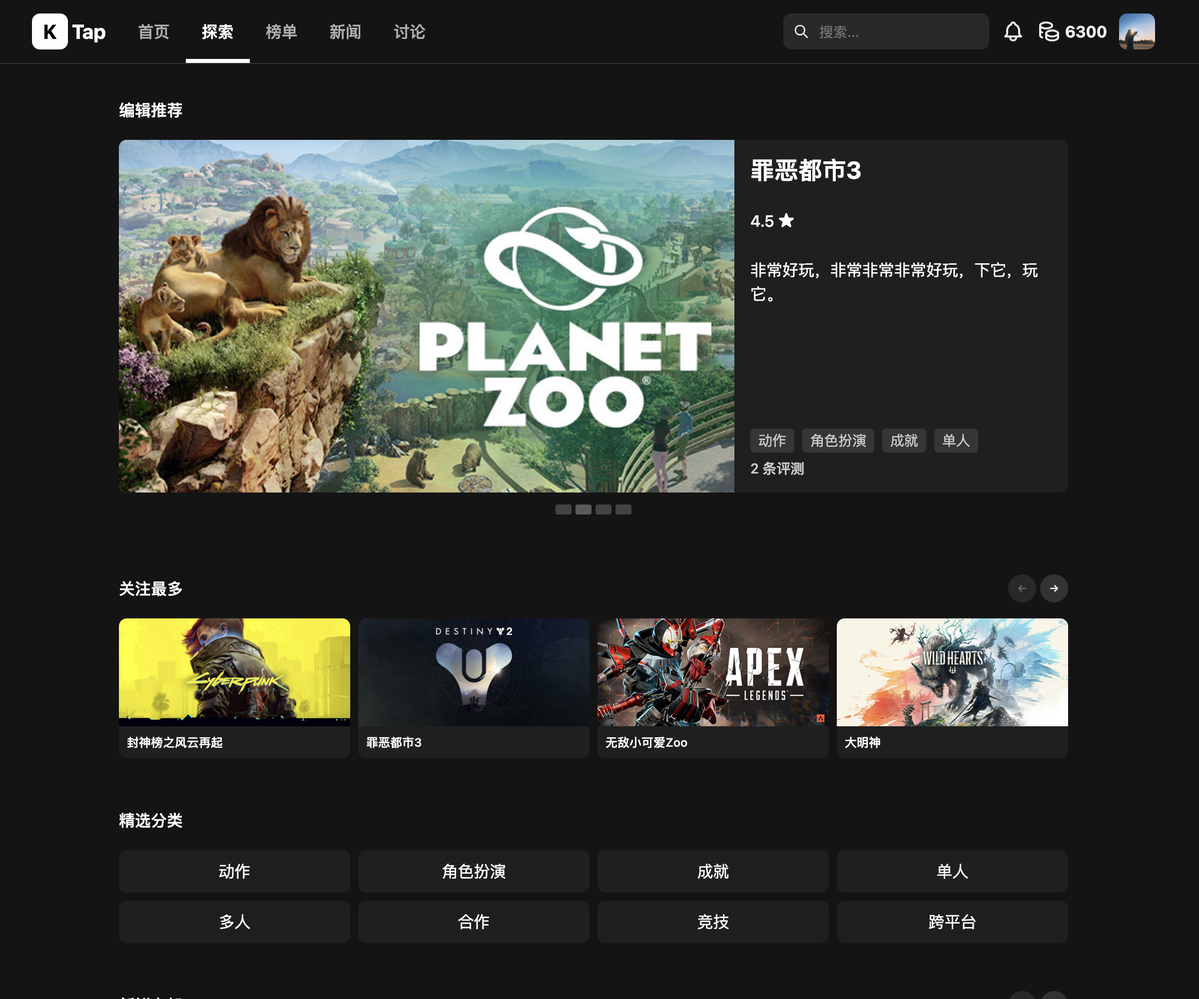
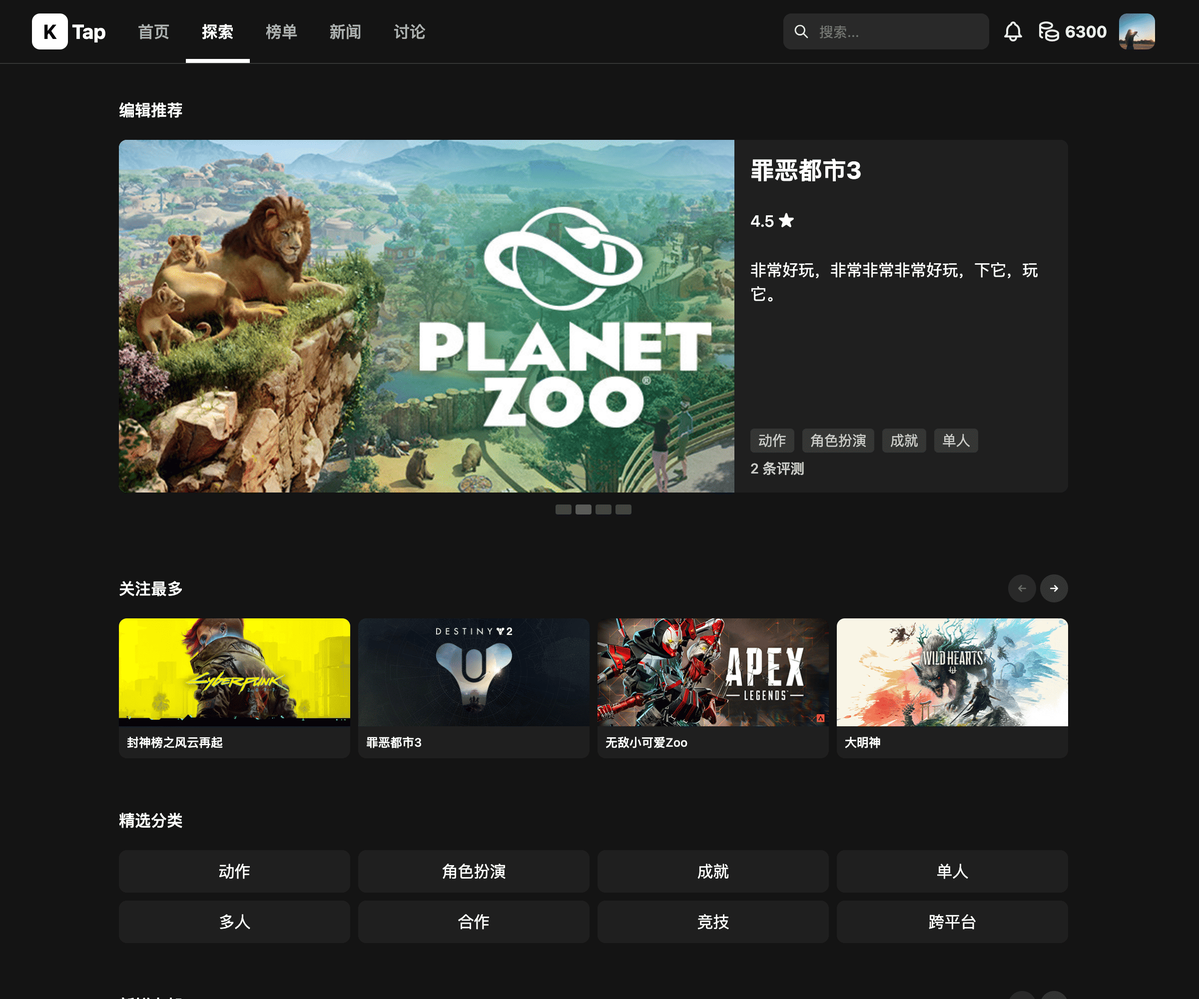
compressed images & add year group for posts

diff --git a/src/app/components/icons.jsx b/src/app/components/icons.jsx
@@ -1,7 +1,23 @@
-export const JavaScript = () => <svg viewBox="0 0 24 24"><path fill="currentcolor" d="M3,3H21V21H3V3M7.73,18.04C8.13,18.89 8.92,19.59 10.27,19.59C11.77,19.59 12.8,18.79 12.8,17.04V11.26H11.1V17C11.1,17.86 10.75,18.08 10.2,18.08C9.62,18.08 9.38,17.68 9.11,17.21L7.73,18.04M13.71,17.86C14.21,18.84 15.22,19.59 16.8,19.59C18.4,19.59 19.6,18.76 19.6,17.23C19.6,15.82 18.79,15.19 17.35,14.57L16.93,14.39C16.2,14.08 15.89,13.87 15.89,13.37C15.89,12.96 16.2,12.64 16.7,12.64C17.18,12.64 17.5,12.85 17.79,13.37L19.1,12.5C18.55,11.54 17.77,11.17 16.7,11.17C15.19,11.17 14.22,12.13 14.22,13.4C14.22,14.78 15.03,15.43 16.25,15.95L16.67,16.13C17.45,16.47 17.91,16.68 17.91,17.26C17.91,17.74 17.46,18.09 16.76,18.09C15.93,18.09 15.45,17.66 15.09,17.06L13.71,17.86Z"></path></svg>;
+export const Java = () => <svg viewBox="0 0 24 24"><path fill="currentcolor" d="M11.915 0 11.7.215C9.515 2.4 7.47 6.39 6.046 10.483c-1.064 1.024-3.633 2.81-3.711 3.551-.093.87 1.746 2.611 1.55 3.235-.198.625-1.304 1.408-1.014 1.939.1.188.823.011 1.277-.491a13.389 13.389 0 0 0-.017 2.14c.076.906.27 1.668.643 2.232.372.563.956.911 1.667.911.397 0 .727-.114 1.024-.264.298-.149.571-.33.91-.5.68-.34 1.634-.666 3.53-.604 1.903.062 2.872.39 3.559.704.687.314 1.15.664 1.925.664.767 0 1.395-.336 1.807-.9.412-.563.631-1.33.72-2.24.06-.623.055-1.32 0-2.066.454.45 1.117.604 1.213.424.29-.53-.816-1.314-1.013-1.937-.198-.624 1.642-2.366 1.549-3.236-.08-.748-2.707-2.568-3.748-3.586C16.428 6.374 14.308 2.394 12.13.215zm.175 6.038a2.95 2.95 0 0 1 2.943 2.942 2.95 2.95 0 0 1-2.943 2.943A2.95 2.95 0 0 1 9.148 8.98a2.95 2.95 0 0 1 2.942-2.942zM8.685 7.983a3.515 3.515 0 0 0-.145.997c0 1.951 1.6 3.55 3.55 3.55 1.95 0 3.55-1.598 3.55-3.55 0-.329-.046-.648-.132-.951.334.095.64.208.915.336a42.699 42.699 0 0 1 2.042 5.829c.678 2.545 1.01 4.92.846 6.607-.082.844-.29 1.51-.606 1.94-.315.431-.713.651-1.315.651-.593 0-.932-.27-1.673-.61-.741-.338-1.825-.694-3.792-.758-1.974-.064-3.073.293-3.821.669-.375.188-.659.373-.911.5s-.466.2-.752.2c-.53 0-.876-.209-1.16-.64-.285-.43-.474-1.101-.545-1.948-.141-1.693.176-4.069.823-6.614a43.155 43.155 0 0 1 1.934-5.783c.348-.167.749-.31 1.192-.425zm-3.382 4.362a.216.216 0 0 1 .13.031c-.166.56-.323 1.116-.463 1.665a33.849 33.849 0 0 0-.547 2.555 3.9 3.9 0 0 0-.2-.39c-.58-1.012-.914-1.642-1.16-2.08.315-.24 1.679-1.755 2.24-1.781zm13.394.01c.562.027 1.926 1.543 2.24 1.783-.246.438-.58 1.068-1.16 2.08a4.428 4.428 0 0 0-.163.309 32.354 32.354 0 0 0-.562-2.49 40.579 40.579 0 0 0-.482-1.652.216.216 0 0 1 .127-.03z" /></svg>;
+// export const Java = () => <svg viewBox="0 0 48 48"><path fill="#d43a02" d="M23.65,24.898c-0.998-1.609-1.722-2.943-2.725-5.455C19.229,15.2,31.24,11.366,26.37,3.999	c2.111,5.089-7.577,8.235-8.477,12.473C17.07,20.37,23.645,24.898,23.65,24.898z"></path><path fill="#d43a02" d="M23.878,17.27c-0.192,2.516,2.229,3.857,2.299,5.695c0.056,1.496-1.447,2.743-1.447,2.743	s2.728-0.536,3.579-2.818c0.945-2.534-1.834-4.269-1.548-6.298c0.267-1.938,6.031-5.543,6.031-5.543S24.311,11.611,23.878,17.27z"></path><linearGradient id="P9ujQJgz7XN9Qbny9S64Ha_Pd2x9GWu9ovX_gr1" x1="22.677" x2="30.737" y1="21.174" y2="43.318" gradientUnits="userSpaceOnUse"><stop offset="0" stop-color="#5c65d6"></stop><stop offset=".999" stop-color="#464eb0"></stop></linearGradient><path fill="url(#P9ujQJgz7XN9Qbny9S64Ha_Pd2x9GWu9ovX_gr1)" d="M32.084,25.055c1.754-0.394,3.233,0.723,3.233,2.01c0,2.901-4.021,5.643-4.021,5.643 s6.225-0.742,6.225-5.505C37.521,24.053,34.464,23.266,32.084,25.055z M29.129,27.395c0,0,1.941-1.383,2.458-1.902 c-4.763,1.011-15.638,1.147-15.638,0.269c0-0.809,3.507-1.638,3.507-1.638s-7.773-0.112-7.773,2.181 C11.683,28.695,21.858,28.866,29.129,27.395z"></path><linearGradient id="P9ujQJgz7XN9Qbny9S64Hb_Pd2x9GWu9ovX_gr2" x1="19.498" x2="27.296" y1="22.77" y2="44.196" gradientUnits="userSpaceOnUse"><stop offset="0" stop-color="#5c65d6"></stop><stop offset=".999" stop-color="#464eb0"></stop></linearGradient><path fill="url(#P9ujQJgz7XN9Qbny9S64Hb_Pd2x9GWu9ovX_gr2)" d="M27.935,29.571 c-4.509,1.499-12.814,1.02-10.354-0.993c-1.198,0-2.974,0.963-2.974,1.889c0,1.857,8.982,3.291,15.63,0.572L27.935,29.571z"></path><linearGradient id="P9ujQJgz7XN9Qbny9S64Hc_Pd2x9GWu9ovX_gr3" x1="18.698" x2="26.59" y1="23.455" y2="45.14" gradientUnits="userSpaceOnUse"><stop offset="0" stop-color="#5c65d6"></stop><stop offset=".999" stop-color="#464eb0"></stop></linearGradient><path fill="url(#P9ujQJgz7XN9Qbny9S64Hc_Pd2x9GWu9ovX_gr3)" d="M18.686,32.739 c-1.636,0-2.695,1.054-2.695,1.822c0,2.391,9.76,2.632,13.627,0.205l-2.458-1.632C24.271,34.404,17.014,34.579,18.686,32.739z"></path><linearGradient id="P9ujQJgz7XN9Qbny9S64Hd_Pd2x9GWu9ovX_gr4" x1="18.03" x2="25.861" y1="24.198" y2="45.712" gradientUnits="userSpaceOnUse"><stop offset="0" stop-color="#5c65d6"></stop><stop offset=".999" stop-color="#464eb0"></stop></linearGradient><path fill="url(#P9ujQJgz7XN9Qbny9S64Hd_Pd2x9GWu9ovX_gr4)" d="M36.281,36.632 c0-0.936-1.055-1.377-1.433-1.588c2.228,5.373-22.317,4.956-22.317,1.784c0-0.721,1.807-1.427,3.477-1.093l-1.42-0.839 C11.26,34.374,9,35.837,9,37.017C9,42.52,36.281,42.255,36.281,36.632z"></path><linearGradient id="P9ujQJgz7XN9Qbny9S64He_Pd2x9GWu9ovX_gr5" x1="20.725" x2="28.228" y1="24.582" y2="45.197" gradientUnits="userSpaceOnUse"><stop offset="0" stop-color="#5c65d6"></stop><stop offset=".999" stop-color="#464eb0"></stop></linearGradient><path fill="url(#P9ujQJgz7XN9Qbny9S64He_Pd2x9GWu9ovX_gr5)" d="M39,38.604 c-4.146,4.095-14.659,5.587-25.231,3.057C24.341,46.164,38.95,43.628,39,38.604z"></path></svg>
+export const JavaScript = () => <svg viewBox="0 0 24 24"><path fill="currentcolor" d="M0 0h24v24H0V0zm22.034 18.276c-.175-1.095-.888-2.015-3.003-2.873-.736-.345-1.554-.585-1.797-1.14-.091-.33-.105-.51-.046-.705.15-.646.915-.84 1.515-.66.39.12.75.42.976.9 1.034-.676 1.034-.676 1.755-1.125-.27-.42-.404-.601-.586-.78-.63-.705-1.469-1.065-2.834-1.034l-.705.089c-.676.165-1.32.525-1.71 1.005-1.14 1.291-.811 3.541.569 4.471 1.365 1.02 3.361 1.244 3.616 2.205.24 1.17-.87 1.545-1.966 1.41-.811-.18-1.26-.586-1.755-1.336l-1.83 1.051c.21.48.45.689.81 1.109 1.74 1.756 6.09 1.666 6.871-1.004.029-.09.24-.705.074-1.65l.046.067zm-8.983-7.245h-2.248c0 1.938-.009 3.864-.009 5.805 0 1.232.063 2.363-.138 2.711-.33.689-1.18.601-1.566.48-.396-.196-.597-.466-.83-.855-.063-.105-.11-.196-.127-.196l-1.825 1.125c.305.63.75 1.172 1.324 1.517.855.51 2.004.675 3.207.405.783-.226 1.458-.691 1.811-1.411.51-.93.402-2.07.397-3.346.012-2.054 0-4.109 0-6.179l.004-.056z" /></svg>;
 export const NextJS = () => <svg viewBox="0 0 24 24"><path fill="currentcolor" d="M12 2C6.5 2 2 6.5 2 12s4.5 10 10 10c1.8 0 3.4-.5 4.8-1.2L9.6 10.6v5.7H8.5V8.5h1.1l7.9 11.8c2.7-1.8 4.5-4.9 4.5-8.4C22 6.5 17.5 2 12 2zm3.5 13.2-1.2-1.8V8.5h1.2v6.7z"></path></svg>;
-export const React = () => <svg viewBox="0 0 24 24"><path fill="currentcolor" d="M12,10.11C13.03,10.11 13.87,10.95 13.87,12C13.87,13 13.03,13.85 12,13.85C10.97,13.85 10.13,13 10.13,12C10.13,10.95 10.97,10.11 12,10.11M7.37,20C8,20.38 9.38,19.8 10.97,18.3C10.45,17.71 9.94,17.07 9.46,16.4C8.64,16.32 7.83,16.2 7.06,16.04C6.55,18.18 6.74,19.65 7.37,20M8.08,14.26L7.79,13.75C7.68,14.04 7.57,14.33 7.5,14.61C7.77,14.67 8.07,14.72 8.38,14.77C8.28,14.6 8.18,14.43 8.08,14.26M14.62,13.5L15.43,12L14.62,10.5C14.32,9.97 14,9.5 13.71,9.03C13.17,9 12.6,9 12,9C11.4,9 10.83,9 10.29,9.03C10,9.5 9.68,9.97 9.38,10.5L8.57,12L9.38,13.5C9.68,14.03 10,14.5 10.29,14.97C10.83,15 11.4,15 12,15C12.6,15 13.17,15 13.71,14.97C14,14.5 14.32,14.03 14.62,13.5M12,6.78C11.81,7 11.61,7.23 11.41,7.5C11.61,7.5 11.8,7.5 12,7.5C12.2,7.5 12.39,7.5 12.59,7.5C12.39,7.23 12.19,7 12,6.78M12,17.22C12.19,17 12.39,16.77 12.59,16.5C12.39,16.5 12.2,16.5 12,16.5C11.8,16.5 11.61,16.5 11.41,16.5C11.61,16.77 11.81,17 12,17.22M16.62,4C16,3.62 14.62,4.2 13.03,5.7C13.55,6.29 14.06,6.93 14.54,7.6C15.36,7.68 16.17,7.8 16.94,7.96C17.45,5.82 17.26,4.35 16.62,4M15.92,9.74L16.21,10.25C16.32,9.96 16.43,9.67 16.5,9.39C16.23,9.33 15.93,9.28 15.62,9.23C15.72,9.4 15.82,9.57 15.92,9.74M17.37,2.69C18.84,3.53 19,5.74 18.38,8.32C20.92,9.07 22.75,10.31 22.75,12C22.75,13.69 20.92,14.93 18.38,15.68C19,18.26 18.84,20.47 17.37,21.31C15.91,22.15 13.92,21.19 12,19.36C10.08,21.19 8.09,22.15 6.62,21.31C5.16,20.47 5,18.26 5.62,15.68C3.08,14.93 1.25,13.69 1.25,12C1.25,10.31 3.08,9.07 5.62,8.32C5,5.74 5.16,3.53 6.62,2.69C8.09,1.85 10.08,2.81 12,4.64C13.92,2.81 15.91,1.85 17.37,2.69M17.08,12C17.42,12.75 17.72,13.5 17.97,14.26C20.07,13.63 21.25,12.73 21.25,12C21.25,11.27 20.07,10.37 17.97,9.74C17.72,10.5 17.42,11.25 17.08,12M6.92,12C6.58,11.25 6.28,10.5 6.03,9.74C3.93,10.37 2.75,11.27 2.75,12C2.75,12.73 3.93,13.63 6.03,14.26C6.28,13.5 6.58,12.75 6.92,12M15.92,14.26C15.82,14.43 15.72,14.6 15.62,14.77C15.93,14.72 16.23,14.67 16.5,14.61C16.43,14.33 16.32,14.04 16.21,13.75L15.92,14.26M13.03,18.3C14.62,19.8 16,20.38 16.62,20C17.26,19.65 17.45,18.18 16.94,16.04C16.17,16.2 15.36,16.32 14.54,16.4C14.06,17.07 13.55,17.71 13.03,18.3M8.08,9.74C8.18,9.57 8.28,9.4 8.38,9.23C8.07,9.28 7.77,9.33 7.5,9.39C7.57,9.67 7.68,9.96 7.79,10.25L8.08,9.74M10.97,5.7C9.38,4.2 8,3.62 7.37,4C6.74,4.35 6.55,5.82 7.06,7.96C7.83,7.8 8.64,7.68 9.46,7.6C9.94,6.93 10.45,6.29 10.97,5.7Z"></path></svg>;
+export const React = () => <svg viewBox="0 0 24 24"><path fill="currentcolor" d="M14.23 12.004a2.236 2.236 0 0 1-2.235 2.236 2.236 2.236 0 0 1-2.236-2.236 2.236 2.236 0 0 1 2.235-2.236 2.236 2.236 0 0 1 2.236 2.236zm2.648-10.69c-1.346 0-3.107.96-4.888 2.622-1.78-1.653-3.542-2.602-4.887-2.602-.41 0-.783.093-1.106.278-1.375.793-1.683 3.264-.973 6.365C1.98 8.917 0 10.42 0 12.004c0 1.59 1.99 3.097 5.043 4.03-.704 3.113-.39 5.588.988 6.38.32.187.69.275 1.102.275 1.345 0 3.107-.96 4.888-2.624 1.78 1.654 3.542 2.603 4.887 2.603.41 0 .783-.09 1.106-.275 1.374-.792 1.683-3.263.973-6.365C22.02 15.096 24 13.59 24 12.004c0-1.59-1.99-3.097-5.043-4.032.704-3.11.39-5.587-.988-6.38-.318-.184-.688-.277-1.092-.278zm-.005 1.09v.006c.225 0 .406.044.558.127.666.382.955 1.835.73 3.704-.054.46-.142.945-.25 1.44-.96-.236-2.006-.417-3.107-.534-.66-.905-1.345-1.727-2.035-2.447 1.592-1.48 3.087-2.292 4.105-2.295zm-9.77.02c1.012 0 2.514.808 4.11 2.28-.686.72-1.37 1.537-2.02 2.442-1.107.117-2.154.298-3.113.538-.112-.49-.195-.964-.254-1.42-.23-1.868.054-3.32.714-3.707.19-.09.4-.127.563-.132zm4.882 3.05c.455.468.91.992 1.36 1.564-.44-.02-.89-.034-1.345-.034-.46 0-.915.01-1.36.034.44-.572.895-1.096 1.345-1.565zM12 8.1c.74 0 1.477.034 2.202.093.406.582.802 1.203 1.183 1.86.372.64.71 1.29 1.018 1.946-.308.655-.646 1.31-1.013 1.95-.38.66-.773 1.288-1.18 1.87-.728.063-1.466.098-2.21.098-.74 0-1.477-.035-2.202-.093-.406-.582-.802-1.204-1.183-1.86-.372-.64-.71-1.29-1.018-1.946.303-.657.646-1.313 1.013-1.954.38-.66.773-1.286 1.18-1.868.728-.064 1.466-.098 2.21-.098zm-3.635.254c-.24.377-.48.763-.704 1.16-.225.39-.435.782-.635 1.174-.265-.656-.49-1.31-.676-1.947.64-.15 1.315-.283 2.015-.386zm7.26 0c.695.103 1.365.23 2.006.387-.18.632-.405 1.282-.66 1.933-.2-.39-.41-.783-.64-1.174-.225-.392-.465-.774-.705-1.146zm3.063.675c.484.15.944.317 1.375.498 1.732.74 2.852 1.708 2.852 2.476-.005.768-1.125 1.74-2.857 2.475-.42.18-.88.342-1.355.493-.28-.958-.646-1.956-1.1-2.98.45-1.017.81-2.01 1.085-2.964zm-13.395.004c.278.96.645 1.957 1.1 2.98-.45 1.017-.812 2.01-1.086 2.964-.484-.15-.944-.318-1.37-.5-1.732-.737-2.852-1.706-2.852-2.474 0-.768 1.12-1.742 2.852-2.476.42-.18.88-.342 1.356-.494zm11.678 4.28c.265.657.49 1.312.676 1.948-.64.157-1.316.29-2.016.39.24-.375.48-.762.705-1.158.225-.39.435-.788.636-1.18zm-9.945.02c.2.392.41.783.64 1.175.23.39.465.772.705 1.143-.695-.102-1.365-.23-2.006-.386.18-.63.406-1.282.66-1.933zM17.92 16.32c.112.493.2.968.254 1.423.23 1.868-.054 3.32-.714 3.708-.147.09-.338.128-.563.128-1.012 0-2.514-.807-4.11-2.28.686-.72 1.37-1.536 2.02-2.44 1.107-.118 2.154-.3 3.113-.54zm-11.83.01c.96.234 2.006.415 3.107.532.66.905 1.345 1.727 2.035 2.446-1.595 1.483-3.092 2.295-4.11 2.295-.22-.005-.406-.05-.553-.132-.666-.38-.955-1.834-.73-3.703.054-.46.142-.944.25-1.438zm4.56.64c.44.02.89.034 1.345.034.46 0 .915-.01 1.36-.034-.44.572-.895 1.095-1.345 1.565-.455-.47-.91-.993-1.36-1.565z" /></svg>
 export const Kotlin = () => <svg viewBox="0 0 24 24"><path fill="currentcolor" d="M2 2H22L12 12L22 22H2Z"></path></svg>;
-export const NodeJS = () => <svg viewBox="0 0 24 24"><path fill="currentcolor" d="M12,1.85C11.73,1.85 11.45,1.92 11.22,2.05L3.78,6.35C3.3,6.63 3,7.15 3,7.71V16.29C3,16.85 3.3,17.37 3.78,17.65L5.73,18.77C6.68,19.23 7,19.24 7.44,19.24C8.84,19.24 9.65,18.39 9.65,16.91V8.44C9.65,8.32 9.55,8.22 9.43,8.22H8.5C8.37,8.22 8.27,8.32 8.27,8.44V16.91C8.27,17.57 7.59,18.22 6.5,17.67L4.45,16.5C4.38,16.45 4.34,16.37 4.34,16.29V7.71C4.34,7.62 4.38,7.54 4.45,7.5L11.89,3.21C11.95,3.17 12.05,3.17 12.11,3.21L19.55,7.5C19.62,7.54 19.66,7.62 19.66,7.71V16.29C19.66,16.37 19.62,16.45 19.55,16.5L12.11,20.79C12.05,20.83 11.95,20.83 11.88,20.79L10,19.65C9.92,19.62 9.84,19.61 9.79,19.64C9.26,19.94 9.16,20 8.67,20.15C8.55,20.19 8.36,20.26 8.74,20.47L11.22,21.94C11.46,22.08 11.72,22.15 12,22.15C12.28,22.15 12.54,22.08 12.78,21.94L20.22,17.65C20.7,17.37 21,16.85 21,16.29V7.71C21,7.15 20.7,6.63 20.22,6.35L12.78,2.05C12.55,1.92 12.28,1.85 12,1.85M14,8C11.88,8 10.61,8.89 10.61,10.39C10.61,12 11.87,12.47 13.91,12.67C16.34,12.91 16.53,13.27 16.53,13.75C16.53,14.58 15.86,14.93 14.3,14.93C12.32,14.93 11.9,14.44 11.75,13.46C11.73,13.36 11.64,13.28 11.53,13.28H10.57C10.45,13.28 10.36,13.37 10.36,13.5C10.36,14.74 11.04,16.24 14.3,16.24C16.65,16.24 18,15.31 18,13.69C18,12.08 16.92,11.66 14.63,11.35C12.32,11.05 12.09,10.89 12.09,10.35C12.09,9.9 12.29,9.3 14,9.3C15.5,9.3 16.09,9.63 16.32,10.66C16.34,10.76 16.43,10.83 16.53,10.83H17.5C17.55,10.83 17.61,10.81 17.65,10.76C17.69,10.72 17.72,10.66 17.7,10.6C17.56,8.82 16.38,8 14,8Z"></path></svg>;
-export const Git = () => <svg viewBox="0 0 24 24"><path fill="currentcolor" d="M2.6,10.59L8.38,4.8L10.07,6.5C9.83,7.35 10.22,8.28 11,8.73V14.27C10.4,14.61 10,15.26 10,16A2,2 0 0,0 12,18A2,2 0 0,0 14,16C14,15.26 13.6,14.61 13,14.27V9.41L15.07,11.5C15,11.65 15,11.82 15,12A2,2 0 0,0 17,14A2,2 0 0,0 19,12A2,2 0 0,0 17,10C16.82,10 16.65,10 16.5,10.07L13.93,7.5C14.19,6.57 13.71,5.55 12.78,5.16C12.35,5 11.9,4.96 11.5,5.07L9.8,3.38L10.59,2.6C11.37,1.81 12.63,1.81 13.41,2.6L21.4,10.59C22.19,11.37 22.19,12.63 21.4,13.41L13.41,21.4C12.63,22.19 11.37,22.19 10.59,21.4L2.6,13.41C1.81,12.63 1.81,11.37 2.6,10.59Z"></path></svg>;
-export const MongoDB = () => <svg viewBox="0 0 24 24"><path fill="currentcolor" d="M17,8C8,10 5.9,16.17 3.82,21.34L5.71,22L6.66,19.7C7.14,19.87 7.64,20 8,20C19,20 22,3 22,3C21,5 14,5.25 9,6.25C4,7.25 2,11.5 2,13.5C2,15.5 3.75,17.25 3.75,17.25C7,8 17,8 17,8Z"></path></svg>;
+export const NodeJS = () => <svg viewBox="0 0 24 24" ><path fill="currentcolor" d="M11.998,24c-0.321,0-0.641-0.084-0.922-0.247l-2.936-1.737c-0.438-0.245-0.224-0.332-0.08-0.383 c0.585-0.203,0.703-0.25,1.328-0.604c0.065-0.037,0.151-0.023,0.218,0.017l2.256,1.339c0.082,0.045,0.197,0.045,0.272,0l8.795-5.076 c0.082-0.047,0.134-0.141,0.134-0.238V6.921c0-0.099-0.053-0.192-0.137-0.242l-8.791-5.072c-0.081-0.047-0.189-0.047-0.271,0 L3.075,6.68C2.99,6.729,2.936,6.825,2.936,6.921v10.15c0,0.097,0.054,0.189,0.139,0.235l2.409,1.392 c1.307,0.654,2.108-0.116,2.108-0.89V7.787c0-0.142,0.114-0.253,0.256-0.253h1.115c0.139,0,0.255,0.112,0.255,0.253v10.021 c0,1.745-0.95,2.745-2.604,2.745c-0.508,0-0.909,0-2.026-0.551L2.28,18.675c-0.57-0.329-0.922-0.945-0.922-1.604V6.921 c0-0.659,0.353-1.275,0.922-1.603l8.795-5.082c0.557-0.315,1.296-0.315,1.848,0l8.794,5.082c0.57,0.329,0.924,0.944,0.924,1.603 v10.15c0,0.659-0.354,1.273-0.924,1.604l-8.794,5.078C12.643,23.916,12.324,24,11.998,24z M19.099,13.993 c0-1.9-1.284-2.406-3.987-2.763c-2.731-0.361-3.009-0.548-3.009-1.187c0-0.528,0.235-1.233,2.258-1.233 c1.807,0,2.473,0.389,2.747,1.607c0.024,0.115,0.129,0.199,0.247,0.199h1.141c0.071,0,0.138-0.031,0.186-0.081 c0.048-0.054,0.074-0.123,0.067-0.196c-0.177-2.098-1.571-3.076-4.388-3.076c-2.508,0-4.004,1.058-4.004,2.833 c0,1.925,1.488,2.457,3.895,2.695c2.88,0.282,3.103,0.703,3.103,1.269c0,0.983-0.789,1.402-2.642,1.402 c-2.327,0-2.839-0.584-3.011-1.742c-0.02-0.124-0.126-0.215-0.253-0.215h-1.137c-0.141,0-0.254,0.112-0.254,0.253 c0,1.482,0.806,3.248,4.655,3.248C17.501,17.007,19.099,15.91,19.099,13.993z" /></svg>;
+export const Git = () => <svg viewBox="0 0 24 24" ><path fill="currentcolor" d="M23.546 10.93L13.067.452c-.604-.603-1.582-.603-2.188 0L8.708 2.627l2.76 2.76c.645-.215 1.379-.07 1.889.441.516.515.658 1.258.438 1.9l2.658 2.66c.645-.223 1.387-.078 1.9.435.721.72.721 1.884 0 2.604-.719.719-1.881.719-2.6 0-.539-.541-.674-1.337-.404-1.996L12.86 8.955v6.525c.176.086.342.203.488.348.713.721.713 1.883 0 2.6-.719.721-1.889.721-2.609 0-.719-.719-.719-1.879 0-2.598.182-.18.387-.316.605-.406V8.835c-.217-.091-.424-.222-.6-.401-.545-.545-.676-1.342-.396-2.009L7.636 3.7.45 10.881c-.6.605-.6 1.584 0 2.189l10.48 10.477c.604.604 1.582.604 2.186 0l10.43-10.43c.605-.603.605-1.582 0-2.187" /></svg>;
+export const MongoDB = () => <svg viewBox="0 0 24 24" ><path fill="currentcolor" d="M17.193 9.555c-1.264-5.58-4.252-7.414-4.573-8.115-.28-.394-.53-.954-.735-1.44-.036.495-.055.685-.523 1.184-.723.566-4.438 3.682-4.74 10.02-.282 5.912 4.27 9.435 4.888 9.884l.07.05A73.49 73.49 0 0111.91 24h.481c.114-1.032.284-2.056.51-3.07.417-.296.604-.463.85-.693a11.342 11.342 0 003.639-8.464c.01-.814-.103-1.662-.197-2.218zm-5.336 8.195s0-8.291.275-8.29c.213 0 .49 10.695.49 10.695-.381-.045-.765-1.76-.765-2.405z" /></svg>;
+export const Rust = () => <svg viewBox="0 0 24 24"><path fill="currentcolor" d="M23.8346 11.7033l-1.0073-.6236a13.7268 13.7268 0 00-.0283-.2936l.8656-.8069a.3483.3483 0 00-.1154-.578l-1.1066-.414a8.4958 8.4958 0 00-.087-.2856l.6904-.9587a.3462.3462 0 00-.2257-.5446l-1.1663-.1894a9.3574 9.3574 0 00-.1407-.2622l.49-1.0761a.3437.3437 0 00-.0274-.3361.3486.3486 0 00-.3006-.154l-1.1845.0416a6.7444 6.7444 0 00-.1873-.2268l.2723-1.153a.3472.3472 0 00-.417-.4172l-1.1532.2724a14.0183 14.0183 0 00-.2278-.1873l.0415-1.1845a.3442.3442 0 00-.49-.328l-1.076.491c-.0872-.0476-.1742-.0952-.2623-.1407l-.1903-1.1673A.3483.3483 0 0016.256.955l-.9597.6905a8.4867 8.4867 0 00-.2855-.086l-.414-1.1066a.3483.3483 0 00-.5781-.1154l-.8069.8666a9.2936 9.2936 0 00-.2936-.0284L12.2946.1683a.3462.3462 0 00-.5892 0l-.6236 1.0073a13.7383 13.7383 0 00-.2936.0284L9.9803.3374a.3462.3462 0 00-.578.1154l-.4141 1.1065c-.0962.0274-.1903.0567-.2855.086L7.744.955a.3483.3483 0 00-.5447.2258L7.009 2.348a9.3574 9.3574 0 00-.2622.1407l-1.0762-.491a.3462.3462 0 00-.49.328l.0416 1.1845a7.9826 7.9826 0 00-.2278.1873L3.8413 3.425a.3472.3472 0 00-.4171.4171l.2713 1.1531c-.0628.075-.1255.1509-.1863.2268l-1.1845-.0415a.3462.3462 0 00-.328.49l.491 1.0761a9.167 9.167 0 00-.1407.2622l-1.1662.1894a.3483.3483 0 00-.2258.5446l.6904.9587a13.303 13.303 0 00-.087.2855l-1.1065.414a.3483.3483 0 00-.1155.5781l.8656.807a9.2936 9.2936 0 00-.0283.2935l-1.0073.6236a.3442.3442 0 000 .5892l1.0073.6236c.008.0982.0182.1964.0283.2936l-.8656.8079a.3462.3462 0 00.1155.578l1.1065.4141c.0273.0962.0567.1914.087.2855l-.6904.9587a.3452.3452 0 00.2268.5447l1.1662.1893c.0456.088.0922.1751.1408.2622l-.491 1.0762a.3462.3462 0 00.328.49l1.1834-.0415c.0618.0769.1235.1528.1873.2277l-.2713 1.1541a.3462.3462 0 00.4171.4161l1.153-.2713c.075.0638.151.1255.2279.1863l-.0415 1.1845a.3442.3442 0 00.49.327l1.0761-.49c.087.0486.1741.0951.2622.1407l.1903 1.1662a.3483.3483 0 00.5447.2268l.9587-.6904a9.299 9.299 0 00.2855.087l.414 1.1066a.3452.3452 0 00.5781.1154l.8079-.8656c.0972.0111.1954.0203.2936.0294l.6236 1.0073a.3472.3472 0 00.5892 0l.6236-1.0073c.0982-.0091.1964-.0183.2936-.0294l.8069.8656a.3483.3483 0 00.578-.1154l.4141-1.1066a8.4626 8.4626 0 00.2855-.087l.9587.6904a.3452.3452 0 00.5447-.2268l.1903-1.1662c.088-.0456.1751-.0931.2622-.1407l1.0762.49a.3472.3472 0 00.49-.327l-.0415-1.1845a6.7267 6.7267 0 00.2267-.1863l1.1531.2713a.3472.3472 0 00.4171-.416l-.2713-1.1542c.0628-.0749.1255-.1508.1863-.2278l1.1845.0415a.3442.3442 0 00.328-.49l-.49-1.076c.0475-.0872.0951-.1742.1407-.2623l1.1662-.1893a.3483.3483 0 00.2258-.5447l-.6904-.9587.087-.2855 1.1066-.414a.3462.3462 0 00.1154-.5781l-.8656-.8079c.0101-.0972.0202-.1954.0283-.2936l1.0073-.6236a.3442.3442 0 000-.5892zm-6.7413 8.3551a.7138.7138 0 01.2986-1.396.714.714 0 11-.2997 1.396zm-.3422-2.3142a.649.649 0 00-.7715.5l-.3573 1.6685c-1.1035.501-2.3285.7795-3.6193.7795a8.7368 8.7368 0 01-3.6951-.814l-.3574-1.6684a.648.648 0 00-.7714-.499l-1.473.3158a8.7216 8.7216 0 01-.7613-.898h7.1676c.081 0 .1356-.0141.1356-.088v-2.536c0-.074-.0536-.0881-.1356-.0881h-2.0966v-1.6077h2.2677c.2065 0 1.1065.0587 1.394 1.2088.0901.3533.2875 1.5044.4232 1.8729.1346.413.6833 1.2381 1.2685 1.2381h3.5716a.7492.7492 0 00.1296-.0131 8.7874 8.7874 0 01-.8119.9526zM6.8369 20.024a.714.714 0 11-.2997-1.396.714.714 0 01.2997 1.396zM4.1177 8.9972a.7137.7137 0 11-1.304.5791.7137.7137 0 011.304-.579zm-.8352 1.9813l1.5347-.6824a.65.65 0 00.33-.8585l-.3158-.7147h1.2432v5.6025H3.5669a8.7753 8.7753 0 01-.2834-3.348zm6.7343-.5437V8.7836h2.9601c.153 0 1.0792.1772 1.0792.8697 0 .575-.7107.7815-1.2948.7815zm10.7574 1.4862c0 .2187-.008.4363-.0243.651h-.9c-.09 0-.1265.0586-.1265.1477v.413c0 .973-.5487 1.1846-1.0296 1.2382-.4576.0517-.9648-.1913-1.0275-.4717-.2704-1.5186-.7198-1.8436-1.4305-2.4034.8817-.5599 1.799-1.386 1.799-2.4915 0-1.1936-.819-1.9458-1.3769-2.3153-.7825-.5163-1.6491-.6195-1.883-.6195H5.4682a8.7651 8.7651 0 014.907-2.7699l1.0974 1.151a.648.648 0 00.9182.0213l1.227-1.1743a8.7753 8.7753 0 016.0044 4.2762l-.8403 1.8982a.652.652 0 00.33.8585l1.6178.7188c.0283.2875.0425.577.0425.8717zm-9.3006-9.5993a.7128.7128 0 11.984 1.0316.7137.7137 0 01-.984-1.0316zm8.3389 6.71a.7107.7107 0 01.9395-.3625.7137.7137 0 11-.9405.3635z" /></svg>;
+export const Vite = () => <svg viewBox="0 0 24 24"><path fill="currentcolor" d="m8.286 10.578.512-8.657a.306.306 0 0 1 .247-.282L17.377.006a.306.306 0 0 1 .353.385l-1.558 5.403a.306.306 0 0 0 .352.385l2.388-.46a.306.306 0 0 1 .332.438l-6.79 13.55-.123.19a.294.294 0 0 1-.252.14c-.177 0-.35-.152-.305-.369l1.095-5.301a.306.306 0 0 0-.388-.355l-1.433.435a.306.306 0 0 1-.389-.354l.69-3.375a.306.306 0 0 0-.37-.36l-2.32.536a.306.306 0 0 1-.374-.316zm14.976-7.926L17.284 3.74l-.544 1.887 2.077-.4a.8.8 0 0 1 .84.369.8.8 0 0 1 .034.783L12.9 19.93l-.013.025-.015.023-.122.19a.801.801 0 0 1-.672.37.826.826 0 0 1-.634-.302.8.8 0 0 1-.16-.67l1.029-4.981-1.12.34a.81.81 0 0 1-.86-.262.802.802 0 0 1-.165-.67l.63-3.08-2.027.468a.808.808 0 0 1-.768-.233.81.81 0 0 1-.217-.6l.389-6.57-7.44-1.33a.612.612 0 0 0-.64.906L11.58 23.691a.612.612 0 0 0 1.066-.004l11.26-20.135a.612.612 0 0 0-.644-.9z" /></svg>;
+export const SQLite = () => <svg viewBox="0 0 24 24"><path fill="currentcolor" d="M21.678.521c-1.032-.92-2.28-.55-3.513.544a8.71 8.71 0 0 0-.547.535c-2.109 2.237-4.066 6.38-4.674 9.544.237.48.422 1.093.544 1.561a13.044 13.044 0 0 1 .164.703s-.019-.071-.096-.296l-.05-.146a1.689 1.689 0 0 0-.033-.08c-.138-.32-.518-.995-.686-1.289-.143.423-.27.818-.376 1.176.484.884.778 2.4.778 2.4s-.025-.099-.147-.442c-.107-.303-.644-1.244-.772-1.464-.217.804-.304 1.346-.226 1.478.152.256.296.698.422 1.186.286 1.1.485 2.44.485 2.44l.017.224a22.41 22.41 0 0 0 .056 2.748c.095 1.146.273 2.13.5 2.657l.155-.084c-.334-1.038-.47-2.399-.41-3.967.09-2.398.642-5.29 1.661-8.304 1.723-4.55 4.113-8.201 6.3-9.945-1.993 1.8-4.692 7.63-5.5 9.788-.904 2.416-1.545 4.684-1.931 6.857.666-2.037 2.821-2.912 2.821-2.912s1.057-1.304 2.292-3.166c-.74.169-1.955.458-2.362.629-.6.251-.762.337-.762.337s1.945-1.184 3.613-1.72C21.695 7.9 24.195 2.767 21.678.521m-18.573.543A1.842 1.842 0 0 0 1.27 2.9v16.608a1.84 1.84 0 0 0 1.835 1.834h9.418a22.953 22.953 0 0 1-.052-2.707c-.006-.062-.011-.141-.016-.2a27.01 27.01 0 0 0-.473-2.378c-.121-.47-.275-.898-.369-1.057-.116-.197-.098-.31-.097-.432 0-.12.015-.245.037-.386a9.98 9.98 0 0 1 .234-1.045l.217-.028c-.017-.035-.014-.065-.031-.097l-.041-.381a32.8 32.8 0 0 1 .382-1.194l.2-.019c-.008-.016-.01-.038-.018-.053l-.043-.316c.63-3.28 2.587-7.443 4.8-9.791.066-.069.133-.128.198-.194Z" /></svg>;
+export const MySQL = () => <svg viewBox="0 0 24 24" strokeWidth="2" stroke="currentColor" fill="none" strokeLinecap="round" strokeLinejoin="round"><path stroke="none" d="M0 0h24v24H0z" fill="none"></path><path d="M13 21c-1.427 -1.026 -3.59 -3.854 -4 -6c-.486 .77 -1.501 2 -2 2c-1.499 -.888 -.574 -3.973 0 -6c-1.596 -1.433 -2.468 -2.458 -2.5 -4c-3.35 -3.44 -.444 -5.27 2.5 -3h1c8.482 .5 6.421 8.07 9 11.5c2.295 .522 3.665 2.254 5 3.5c-2.086 -.2 -2.784 -.344 -3.5 0c.478 1.64 2.123 2.2 3.5 3"></path><path d="M9 7h.01"></path></svg>;
+export const Fastify = () => <svg viewBox="0 0 24 24"><path fill="currentcolor" d="M23.245 6.49L24 4.533l-.031-.121-7.473 1.967c.797-1.153.523-2.078.523-2.078s-2.387 1.524-4.193 1.485c-1.804-.04-2.387-.52-5.155.362-2.768.882-3.551 3.59-4.351 4.173-.804.583-3.32 2.477-3.32 2.477l.006.034 2.27-.724s-.622.585-1.945 2.37l-.062-.057.002.011s1.064 1.626 2.107 1.324a2.14 2.14 0 0 0 .353-.147c.419.234.967.463 1.572.525 0 0-.41-.475-.752-1.017l.238-.154.865.318-.096-.812c.003-.003.006-.003.008-.006l.849.311-.105-.738a5.65 5.65 0 0 1 .322-.158l.885-3.345 3.662-2.497-.291.733c-.741 1.826-2.135 2.256-2.135 2.256l-.582.22c-.433.512-.614.637-.764 2.353.348-.088.682-.107.984-.028 1.564.421 2.107 2.307 1.685 2.827-.104.13-.356.354-.673.617H7.77l-.008.514-.065.051h-.645l-.009.504-.17.127c-.607.011-1.373-.518-1.373-.518 0 .481.401 1.225.401 1.225l.07-.034-.061.045s1.625 1.083 2.646.681c.91-.356 3.263-2.213 5.296-3.093l6.15-1.62.811-2.1-4.688 1.235v-1.889l5.5-1.448.811-2.1-6.31 1.662V8.367zm-11.163 4l1.459-.384.02.074-.455 1.179-1.513.398zm.503 2.526l-1.512.398.489-1.266 1.459-.385.02.074zm1.971-.424l-1.513.398.49-1.266 1.459-.385.02.073Z" /></svg>;
+export const Redis = () => <svg viewBox="0 0 24 24"><path fill="currentcolor" d="M10.5 2.661l.54.997-1.797.644 2.409.218.748 1.246.467-1.121 2.077-.208-1.61-.613.426-1.017-1.578.519zm6.905 2.077L13.76 6.182l3.292 1.298.353-.146 3.293-1.298zm-10.51.312a2.97 1.153 0 0 0-2.97 1.152 2.97 1.153 0 0 0 2.97 1.153 2.97 1.153 0 0 0 2.97-1.153 2.97 1.153 0 0 0-2.97-1.152zM24 6.805s-8.983 4.278-10.395 4.953c-1.226.561-1.901.561-3.261.094C8.318 11.022 0 7.241 0 7.241v1.038c0 .24.332.499.966.8 1.277.613 8.34 3.677 9.45 4.206 1.112.53 1.9.54 3.313-.197 1.412-.738 8.049-3.905 9.326-4.57.654-.342.945-.602.945-.84zm-10.042.602L8.39 8.26l3.884 1.61zM24 10.637s-8.983 4.279-10.395 4.954c-1.226.56-1.901.56-3.261.093C8.318 14.854 0 11.074 0 11.074v1.038c0 .238.332.498.966.8 1.277.612 8.34 3.676 9.45 4.205 1.112.53 1.9.54 3.313-.197 1.412-.737 8.049-3.905 9.326-4.57.654-.332.945-.602.945-.84zm0 3.842l-10.395 4.954c-1.226.56-1.901.56-3.261.094C8.318 18.696 0 14.916 0 14.916v1.038c0 .239.332.499.966.8 1.277.613 8.34 3.676 9.45 4.206 1.112.53 1.9.54 3.313-.198 1.412-.737 8.049-3.904 9.326-4.569.654-.343.945-.613.945-.841z" /></svg>;
+export const Spring = () => <svg viewBox="0 0 24 24"><path fill="currentcolor" d="M21.8537 1.4158a10.4504 10.4504 0 0 1-1.284 2.2471A11.9666 11.9666 0 1 0 3.8518 20.7757l.4445.3951a11.9543 11.9543 0 0 0 19.6316-8.2971c.3457-3.0126-.568-6.8649-2.0743-11.458zM5.5805 20.8745a1.0174 1.0174 0 1 1-.1482-1.4323 1.0396 1.0396 0 0 1 .1482 1.4323zm16.1991-3.5806c-2.9385 3.9263-9.2601 2.5928-13.2852 2.7904 0 0-.7161.0494-1.4323.1481 0 0 .2717-.1234.6174-.2469 2.8398-.9877 4.1732-1.1853 5.9018-2.0743 3.2349-1.6545 6.4698-5.2844 7.1118-9.0379-1.2347 3.6053-4.9881 6.7167-8.3959 7.9761-2.3459.8643-6.5685 1.7039-6.5685 1.7039l-.1729-.0988c-2.8645-1.4076-2.9632-7.6304 2.2718-9.6306 2.2966-.889 4.4696-.395 6.9637-.9877 2.6422-.6174 5.7043-2.5929 6.939-5.1857 1.3828 4.1732 3.062 10.643.0493 14.6434z" /></svg>;
+export const Prisma = () => <svg viewBox="0 0 24 24"><path fill="currentcolor" d="M21.8068 18.2848L13.5528.7565c-.207-.4382-.639-.7273-1.1286-.7541-.5023-.0293-.9523.213-1.2062.6253L2.266 15.1271c-.2773.4518-.2718 1.0091.0158 1.4555l4.3759 6.7786c.2608.4046.7127.6388 1.1823.6388.1332 0 .267-.0188.3987-.0577l12.7019-3.7568c.3891-.1151.7072-.3904.8737-.7553s.1633-.7828-.0075-1.1454zm-1.8481.7519L9.1814 22.2242c-.3292.0975-.6448-.1873-.5756-.5194l3.8501-18.4386c.072-.3448.5486-.3996.699-.0803l7.1288 15.138c.1344.2856-.019.6224-.325.7128z" /></svg>;
+export const RabbitMQ = () => <svg viewBox="0 0 24 24" ><path fill="currentcolor" d="M23.035 9.601h-7.677a.956.956 0 01-.962-.962V.962a.956.956 0 00-.962-.956H10.56a.956.956 0 00-.962.956V8.64a.956.956 0 01-.962.962H5.762a.956.956 0 01-.961-.962V.962A.956.956 0 003.839 0H.959a.956.956 0 00-.956.962v22.076A.956.956 0 00.965 24h22.07a.956.956 0 00.962-.962V10.58a.956.956 0 00-.962-.98zm-3.86 8.152a1.437 1.437 0 01-1.437 1.443h-1.924a1.437 1.437 0 01-1.436-1.443v-1.917a1.437 1.437 0 011.436-1.443h1.924a1.437 1.437 0 011.437 1.443z" /></svg>;
+export const Docker = () => <svg viewBox="0 0 24 24"><path fill="currentcolor" d="M13.983 11.078h2.119a.186.186 0 00.186-.185V9.006a.186.186 0 00-.186-.186h-2.119a.185.185 0 00-.185.185v1.888c0 .102.083.185.185.185m-2.954-5.43h2.118a.186.186 0 00.186-.186V3.574a.186.186 0 00-.186-.185h-2.118a.185.185 0 00-.185.185v1.888c0 .102.082.185.185.185m0 2.716h2.118a.187.187 0 00.186-.186V6.29a.186.186 0 00-.186-.185h-2.118a.185.185 0 00-.185.185v1.887c0 .102.082.185.185.186m-2.93 0h2.12a.186.186 0 00.184-.186V6.29a.185.185 0 00-.185-.185H8.1a.185.185 0 00-.185.185v1.887c0 .102.083.185.185.186m-2.964 0h2.119a.186.186 0 00.185-.186V6.29a.185.185 0 00-.185-.185H5.136a.186.186 0 00-.186.185v1.887c0 .102.084.185.186.186m5.893 2.715h2.118a.186.186 0 00.186-.185V9.006a.186.186 0 00-.186-.186h-2.118a.185.185 0 00-.185.185v1.888c0 .102.082.185.185.185m-2.93 0h2.12a.185.185 0 00.184-.185V9.006a.185.185 0 00-.184-.186h-2.12a.185.185 0 00-.184.185v1.888c0 .102.083.185.185.185m-2.964 0h2.119a.185.185 0 00.185-.185V9.006a.185.185 0 00-.184-.186h-2.12a.186.186 0 00-.186.186v1.887c0 .102.084.185.186.185m-2.92 0h2.12a.185.185 0 00.184-.185V9.006a.185.185 0 00-.184-.186h-2.12a.185.185 0 00-.184.185v1.888c0 .102.082.185.185.185M23.763 9.89c-.065-.051-.672-.51-1.954-.51-.338.001-.676.03-1.01.087-.248-1.7-1.653-2.53-1.716-2.566l-.344-.199-.226.327c-.284.438-.49.922-.612 1.43-.23.97-.09 1.882.403 2.661-.595.332-1.55.413-1.744.42H.751a.751.751 0 00-.75.748 11.376 11.376 0 00.692 4.062c.545 1.428 1.355 2.48 2.41 3.124 1.18.723 3.1 1.137 5.275 1.137.983.003 1.963-.086 2.93-.266a12.248 12.248 0 003.823-1.389c.98-.567 1.86-1.288 2.61-2.136 1.252-1.418 1.998-2.997 2.553-4.4h.221c1.372 0 2.215-.549 2.68-1.009.309-.293.55-.65.707-1.046l.098-.288Z" /></svg>;
+export const ExternalLink = () => <svg viewBox='0 0 24 24'><path d='M10 6V8H5V19H16V14H18V20C18 20.5523 17.5523 21 17 21H4C3.44772 21 3 20.5523 3 20V7C3 6.44772 3.44772 6 4 6H10ZM21 3V11H19L18.9999 6.413L11.2071 14.2071L9.79289 12.7929L17.5849 5H13V3H21Z' fill='inherit'></path></svg>;
+export const Calendar = () => <svg viewBox='0 0 24 24'><path d='M9 1V3H15V1H17V3H21C21.5523 3 22 3.44772 22 4V20C22 20.5523 21.5523 21 21 21H3C2.44772 21 2 20.5523 2 20V4C2 3.44772 2.44772 3 3 3H7V1H9ZM20 11H4V19H20V11ZM7 5H4V9H20V5H17V7H15V5H9V7H7V5Z'></path></svg>;
+export const Eye = () => <svg viewBox='0 0 24 24'><path d='M12.0003 3C17.3924 3 21.8784 6.87976 22.8189 12C21.8784 17.1202 17.3924 21 12.0003 21C6.60812 21 2.12215 17.1202 1.18164 12C2.12215 6.87976 6.60812 3 12.0003 3ZM12.0003 19C16.2359 19 19.8603 16.052 20.7777 12C19.8603 7.94803 16.2359 5 12.0003 5C7.7646 5 4.14022 7.94803 3.22278 12C4.14022 16.052 7.7646 19 12.0003 19ZM12.0003 16.5C9.51498 16.5 7.50026 14.4853 7.50026 12C7.50026 9.51472 9.51498 7.5 12.0003 7.5C14.4855 7.5 16.5003 9.51472 16.5003 12C16.5003 14.4853 14.4855 16.5 12.0003 16.5ZM12.0003 14.5C13.381 14.5 14.5003 13.3807 14.5003 12C14.5003 10.6193 13.381 9.5 12.0003 9.5C10.6196 9.5 9.50026 10.6193 9.50026 12C9.50026 13.3807 10.6196 14.5 12.0003 14.5Z'></path></svg>;
+export const Terminal = () => <svg viewBox='0 0 24 24'><path d='M3 3H21C21.5523 3 22 3.44772 22 4V20C22 20.5523 21.5523 21 21 21H3C2.44772 21 2 20.5523 2 20V4C2 3.44772 2.44772 3 3 3ZM12 15V17H18V15H12ZM8.41421 12L5.58579 14.8284L7 16.2426L11.2426 12L7 7.75736L5.58579 9.17157L8.41421 12Z' fill='rgba(255,255,255,1)'></path></svg>;

diff --git a/src/lib/database.js b/src/lib/database.js
@@ -16,9 +16,9 @@ const database = {
             { slug: 'work-method-human', title: '我的工作方法论 - 关于人', summary: '在工作中，免不了和人打交道，所以关于人，应该有一些基本的原则。', date: '2019-05-13', hero: '/images/posts/work-method-human/hero.jpg' },
             { slug: 'work-method-value', title: '我的工作方法论 - 核心价值观', summary: '作为领导需要什么样的员工，作为员工，需要进入什么样的企业。', date: '2019-05-06', hero: '/images/posts/work-method-value/hero.jpg' },
             { slug: 'cicd-jvm', title: '用野路子实现JVM项目CI/CD', summary: '用野路子实现JVM项目CI/CD', date: '2019-04-26', hero: '/images/posts/cicd-jvm/hero.jpg' },
+            { slug: 'linux-cmd', title: '好玩的Linux指令', summary: '好玩的Linux指令', date: '2019-04-26', hero: '' },
             { slug: 'certbot', title: 'Let\'s Encrypt - certbot', summary: 'certbot非常的简单和容易上手，不需要10分钟，你只需要不到5分钟，整个操作就完成了。简单实用即真理。', date: '2018-11-05', hero: '/images/posts/certbot/hero.jpg' },
             { slug: 'develop-smart-contract', title: '智能合约开发手记', summary: '最近用EVM做了不少智能合约的项目，有lotto，vote，dao等等，说说感受吧。', date: '2018-09-12', hero: '/images/posts/develop-smart-contract/hero.jpg' },
-            { slug: 'linux-cmd', title: '好玩的Linux指令', summary: '好玩的Linux指令', date: '2019-04-26', hero: '' },
         ],
         async getPosts() {
             const posts = this.data;
@@ -27,6 +27,17 @@ const database = {
                 post.views = viewCounts.find(v => v.slug === post.slug)?.total || 0;
             }
             return posts;
+        },
+        async getPostsGroupByYear() {
+            const posts = await this.getPosts();
+            const groups = {};
+            for (const post of posts) {
+                const year = post.date.split('-')[0];
+                if (!groups[year]) groups[year] = [];
+                groups[year].push(post);
+            }
+            const sortedGroups = Object.keys(groups).sort((a, b) => b.localeCompare(a)).map(year => ({ year, posts: groups[year] }));
+            return sortedGroups;
         },
         async getTopViewPosts(limit = 3) {
             const posts = this.data;
@@ -96,22 +107,23 @@ const database = {
     },
     Skill: {
         data: [
-            { title: 'Java' },
-            { title: 'Kotlin' },
-            { title: 'Spring' },
-            { title: 'Rust' },
-            { title: 'JavaScript' },
-            { title: 'Git' },
-            { title: 'NodeJS' },
-            { title: 'Fastify' },
-            { title: 'Prisma' },
-            { title: 'React' },
-            { title: 'Vite' },
-            { title: 'MySQL' },
-            { title: 'MongoDB' },
-            { title: 'Redis' },
-            { title: 'RabbitMQ' },
-            { title: 'Docker' },
+            { title: 'Java', quality: 5, },
+            { title: 'Kotlin', quality: 5, color: '#7F52FF' },
+            { title: 'Spring', quality: 4, color: '#6DB33F' },
+            { title: 'Rust', quality: 3, },
+            { title: 'JavaScript', quality: 4, color: '#F7DF1E' },
+            { title: 'NodeJS', quality: 4, color: '#339933' },
+            { title: 'Fastify', quality: 4, },
+            { title: 'Prisma', quality: 4, },
+            { title: 'React', quality: 3, color: '#61DAFB' },
+            { title: 'Vite', quality: 3, color: '#646CFF' },
+            { title: 'MySQL', quality: 4, color: '#4479A1' },
+            { title: 'SQLite', quality: 4, color: '#2496ED' },
+            { title: 'MongoDB', quality: 4, color: '#47A248' },
+            { title: 'Redis', quality: 2, color: '#DC382D' },
+            { title: 'RabbitMQ', quality: 1, color: '#FF6600' },
+            { title: 'Docker', quality: 4, color: '#2496ED' },
+            { title: 'Git', quality: 4, color: '#F05032' },
         ],
         async getSkills() {
             return this.data;

diff --git a/src/app/components/skill-card.jsx b/src/app/components/skill-card.jsx
@@ -1,28 +1,53 @@
 'use-client';
 
-import { Git, JavaScript, Kotlin, MongoDB, NextJS, React, NodeJS } from './icons';
+import clsx from 'clsx';
+import { Git, JavaScript, Kotlin, MongoDB, NextJS, React, NodeJS, Rust, Vite, SQLite, Spring, Java, Redis, Prisma, Fastify, Docker, MySQL, RabbitMQ } from './icons';
 
 function Icon({ title }) {
     let icon = null;
     switch (title) {
-        case 'JavaScript': icon = <JavaScript />; break;
+        case 'Java': icon = <Java />; break;
         case 'Kotlin': icon = <Kotlin />; break;
-        case 'NextJS': icon = <NextJS />; break;
-        case 'React': icon = <React />; break;
-        case 'Git': icon = <Git />; break;
+        case 'Spring': icon = <Spring />; break;
+        case 'Rust': icon = <Rust />; break;
+        case 'JavaScript': icon = <JavaScript />; break;
         case 'NodeJS': icon = <NodeJS />; break;
+        case 'NextJS': icon = <NextJS />; break;
+        case 'Fastify': icon = <Fastify />; break;
+        case 'Prisma': icon = <Prisma />; break;
+        case 'React': icon = <React />; break;
+        case 'Vite': icon = <Vite />; break;
+        case 'Git': icon = <Git />; break;
         case 'MongoDB': icon = <MongoDB />; break;
+        case 'MySQL': icon = <MySQL />; break;
+        case 'SQLite': icon = <SQLite />; break;
+        case 'Redis': icon = <Redis />; break;
+        case 'RabbitMQ': icon = <RabbitMQ />; break;
+        case 'Docker': icon = <Docker />; break;
         default: break;
     }
     if (!icon) return null;
     return <div className='w-5 h-5'>{icon}</div>;
 }
 
+function getQualityColor(quality) {
+    switch (quality) {
+        case 5: return 'hover:drop-shadow-[0_0_16px_rgb(255,0,0)]';
+        case 4: return 'hover:drop-shadow-[0_0_16px_rgb(255,215,0)]';
+        case 3: return 'hover:drop-shadow-[0_0_16px_rgb(218,112,214)]';
+        case 2: return 'hover:drop-shadow-[0_0_16px_rgb(135,206,250)]';
+        case 1: return 'hover:drop-shadow-[0_0_16px_rgb(144,238,144)]';
+        default: return 'hover:drop-shadow-[0_0_16px_rgb(255,255,255)]';
+    }
+}
+
 export default function SkillCard({ skill }) {
     return (
-        <div className='cursor-pointer border border-neutral-700 bg-neutral-800 rounded flex items-center p-1 gap-1 hover:border-neutral-600 shadow transition-all duration-300'>
-            <Icon title={skill.title} />
-            <span>{skill.title}</span>
+        <div className={clsx('cursor-pointer border border-neutral-700 bg-neutral-800',
+            'rounded-lg flex items-center p-2 py-1 gap-1 hover:border-neutral-600',
+            `hover:animate-wave hover:backdrop-blur-sm ${getQualityColor(skill.quality)}`)}>
+            <span style={{ color: skill.color }}><Icon title={skill.title} /></span>
+            <span className='text-neutral-300'>{skill.title}</span>
         </div>
     );
 }

diff --git a/src/app/components/post-card.jsx b/src/app/components/post-card.jsx
@@ -1,6 +1,8 @@
+import { Calendar, Eye } from "./icons";
+
 export default function PostCard({ post, endEnhancer, }) {
     return (
-        <a href={`/posts/${post.slug}`}
+        <a href={`/posts/${post.slug}`} target='_blank'
             className='border border-neutral-700 bg-neutral-800 rounded flex items-center justify-between px-3 py-4 hover:border-neutral-600 shadow transition-all duration-300'>
             <div className='flex flex-col gap-1'>
                 <span className='font-bold text-neutral-100'>
@@ -8,11 +10,11 @@ export default function PostCard({ post, endEnhancer, }) {
                 </span>
                 <div className='flex items-center gap-4 text-neutral-400 text-sm'>
                     <div className='flex items-center gap-1 fill-neutral-400'>
-                        <svg xmlns='http://www.w3.org/2000/svg' viewBox='0 0 24 24' className='h-4 w-4'><path d='M9 1V3H15V1H17V3H21C21.5523 3 22 3.44772 22 4V20C22 20.5523 21.5523 21 21 21H3C2.44772 21 2 20.5523 2 20V4C2 3.44772 2.44772 3 3 3H7V1H9ZM20 11H4V19H20V11ZM7 5H4V9H20V5H17V7H15V5H9V7H7V5Z'></path></svg>
+                        <span className='w-4 h-4'><Calendar /></span>
                         <span>{post.date}</span>
                     </div>
                     <div className='flex items-center gap-1 fill-neutral-400'>
-                        <svg xmlns='http://www.w3.org/2000/svg' viewBox='0 0 24 24' className='h-4 w-4'><path d='M12.0003 3C17.3924 3 21.8784 6.87976 22.8189 12C21.8784 17.1202 17.3924 21 12.0003 21C6.60812 21 2.12215 17.1202 1.18164 12C2.12215 6.87976 6.60812 3 12.0003 3ZM12.0003 19C16.2359 19 19.8603 16.052 20.7777 12C19.8603 7.94803 16.2359 5 12.0003 5C7.7646 5 4.14022 7.94803 3.22278 12C4.14022 16.052 7.7646 19 12.0003 19ZM12.0003 16.5C9.51498 16.5 7.50026 14.4853 7.50026 12C7.50026 9.51472 9.51498 7.5 12.0003 7.5C14.4855 7.5 16.5003 9.51472 16.5003 12C16.5003 14.4853 14.4855 16.5 12.0003 16.5ZM12.0003 14.5C13.381 14.5 14.5003 13.3807 14.5003 12C14.5003 10.6193 13.381 9.5 12.0003 9.5C10.6196 9.5 9.50026 10.6193 9.50026 12C9.50026 13.3807 10.6196 14.5 12.0003 14.5Z'></path></svg>
+                        <span className='w-4 h-4'><Eye /></span>
                         <span>{`${Number(post.views || 0).toLocaleString()}`}</span>
                     </div>
                 </div>

diff --git a/src/app/page.js b/src/app/page.js
@@ -5,6 +5,7 @@ import WorkCard from './components/work-card';
 import Paragraph from './components/paragraph';
 import ToolTip from './components/tooltip';
 import SkillCard from './components/skill-card';
+import { ExternalLink } from './components/icons';
 
 // refresh every 1 hour
 export const revalidate = 3600;
@@ -16,7 +17,7 @@ export default async function Page() {
 
   return (
     <div>
-      <h1 className='font-bold text-2xl mb-8'>Hi，大家好，我是 Rui  👏</h1>
+      <h1 className='font-bold text-2xl mb-8'>Hi，大家好，我是 Rui 👏🏼</h1>
       <Paragraph>
         一个 80 后，充满激情和创造力的全栈开发者，乐观主义者，向往一切美好的事物。喜欢在闲暇之余实现各种有意思的项目。
       </Paragraph>
@@ -28,10 +29,8 @@ export default async function Page() {
         </Paragraph>
         <div className='flex flex-col my-6 space-y-4 w-full'>
           {posts.map(post => <PostCard key={post.slug} post={post} endEnhancer={
-            <div className='text-neutral-300 fill-neutral-300 w-4 h-4'>
-              <svg xmlns='http://www.w3.org/2000/svg' viewBox='0 0 24 24'><path d='M10 6V8H5V19H16V14H18V20C18 20.5523 17.5523 21 17 21H4C3.44772 21 3 20.5523 3 20V7C3 6.44772 3.44772 6 4 6H10ZM21 3V11H19L18.9999 6.413L11.2071 14.2071L9.79289 12.7929L17.5849 5H13V3H21Z' fill='inherit'></path></svg>
-            </div>}
-          />)}
+            <span className='text-neutral-300 fill-neutral-300 w-4 h-4'><ExternalLink /></span>
+          } />)}
         </div>
       </section>
 
@@ -61,7 +60,11 @@ export default async function Page() {
           <ToolTip content={'ETH:0x73028936Fd29467E229A585611c37bB9042B10EB'}>
             <span className='font-bold underline underline-offset-4 cursor-pointer'>打赏</span>
           </ToolTip>
-          ，或者联系并雇佣我。
+          ，或者
+          <ToolTip content={'Mail:z17520@126.com'}>
+            <span className='font-bold underline underline-offset-4 cursor-pointer'>联系</span>
+          </ToolTip>
+          并雇佣我。
         </Paragraph>
       </section>
     </div>

diff --git a/src/app/header.jsx b/src/app/header.jsx
@@ -4,6 +4,7 @@ import clsx from 'clsx';
 
 import Link from 'next/link';
 import { usePathname } from 'next/navigation';
+import { Terminal } from './components/icons';
 
 const menus = [
   { path: '/', name: '首页' },
@@ -11,6 +12,7 @@ const menus = [
   { path: '/posts', name: '博客' },
   { path: '/gears', name: '装备' },
   { path: '/privacy', name: '声明' },
+  { path: 'https://github.com/ruislan/homepage', name: '源码' },
 ];
 
 export default function Header() {
@@ -22,9 +24,7 @@ export default function Header() {
     <header>
       <nav className='flex items-center py-8'>
         <a href='/' className='font-bold text-lg mr-6 flex items-center gap-1'>
-          <span className='w-6 h-6'>
-            <svg xmlns='http://www.w3.org/2000/svg' viewBox='0 0 24 24'><path d='M3 3H21C21.5523 3 22 3.44772 22 4V20C22 20.5523 21.5523 21 21 21H3C2.44772 21 2 20.5523 2 20V4C2 3.44772 2.44772 3 3 3ZM12 15V17H18V15H12ZM8.41421 12L5.58579 14.8284L7 16.2426L11.2426 12L7 7.75736L5.58579 9.17157L8.41421 12Z' fill='rgba(255,255,255,1)'></path></svg>
-          </span>
+          <span className='w-6 h-6'><Terminal /></span>
           <span>Rui's Studio</span>
         </a>
         <div className='flex flex-wrap items-center gap-4'>
@@ -36,7 +36,6 @@ export default function Header() {
               )}>{name}</Link>
           })}
         </div>
-        {/* add source link here */}
       </nav>
     </header>
   );

diff --git a/src/app/posts/page.js b/src/app/posts/page.js
@@ -8,13 +8,23 @@ export const metadata = {
 };
 
 export default async function PostsPage() {
-    const posts = await database.Post.getPosts();
+    const groups = await database.Post.getPostsGroupByYear();
     return (
         <div>
             <h1 className='font-bold text-2xl mb-8'>我的博客</h1>
 
             <div className='flex flex-col gap-4'>
-                {posts.map((post) => <PostCard key={post.slug} post={post} />)}
+                {groups.map(({ year, posts }) => (
+                    <div key={year} className='flex flex-col gap-4'>
+                        <div className='flex items-center gap-2'>
+                            <h2 className='font-bold text-xl text-neutral-50'>{year}</h2>
+                            <span className='mt-1 grow border-b border-neutral-600/50' />
+                        </div>
+                        <div className='flex flex-col gap-4'>
+                            {posts.map((post) => <PostCard key={post.slug} post={post} />)}
+                        </div>
+                    </div>
+                ))}
             </div>
         </div>
     );

diff --git a/src/app/components/tooltip.jsx b/src/app/components/tooltip.jsx
@@ -6,7 +6,7 @@ export default function ToolTip({ content, children }) {
     return (
         <div className='relative inline-block' onMouseEnter={() => setIsVisible(true)} onMouseLeave={() => setIsVisible(false)}>
             {children}
-            {isVisible && <div className='absolute p-2 bg-neutral-800 rounded'>{content}</div>}
+            {isVisible && <div className='absolute p-2 bg-neutral-800 rounded-md'>{content}</div>}
         </div>
     );
 };

diff --git a/src/app/globals.css b/src/app/globals.css
@@ -3,8 +3,8 @@
 @tailwind utilities;
 
 :root {
-  --foreground-rgb     : 255, 255, 255;
-  --background-rgb     : 17, 16, 16;
+  --foreground-rgb: 255, 255, 255;
+  --background-rgb: 17, 16, 16;
 }
 
 body {

diff --git a/README.md b/README.md
@@ -28,5 +28,6 @@ docker run -it --rm --name hp -v /path/to/data:/app/db -e DATABASE_URL=file:/app
 
 ## Add Post
 
-* create a html file, save it in the dir '/content/posts'。
-* add an item in the lib/database.js => Post => data, e.g. { slug: 'test', title: 'test', summary: 'test', date: 'yyyy-MM-dd' }。
+* create a html file, say 'test.html', save it to the dir '/content/posts'。
+* mkdir -r '/public/images/posts/test', add a hero image, say 'hero.jpg', to the dir '/public/images/posts/test'
+* add an item in the lib/database.js => Post => data, e.g. { slug: 'test', title: 'test', summary: 'test', date: 'yyyy-MM-dd', hero: '/images/posts/test/hero.jpg', }。
